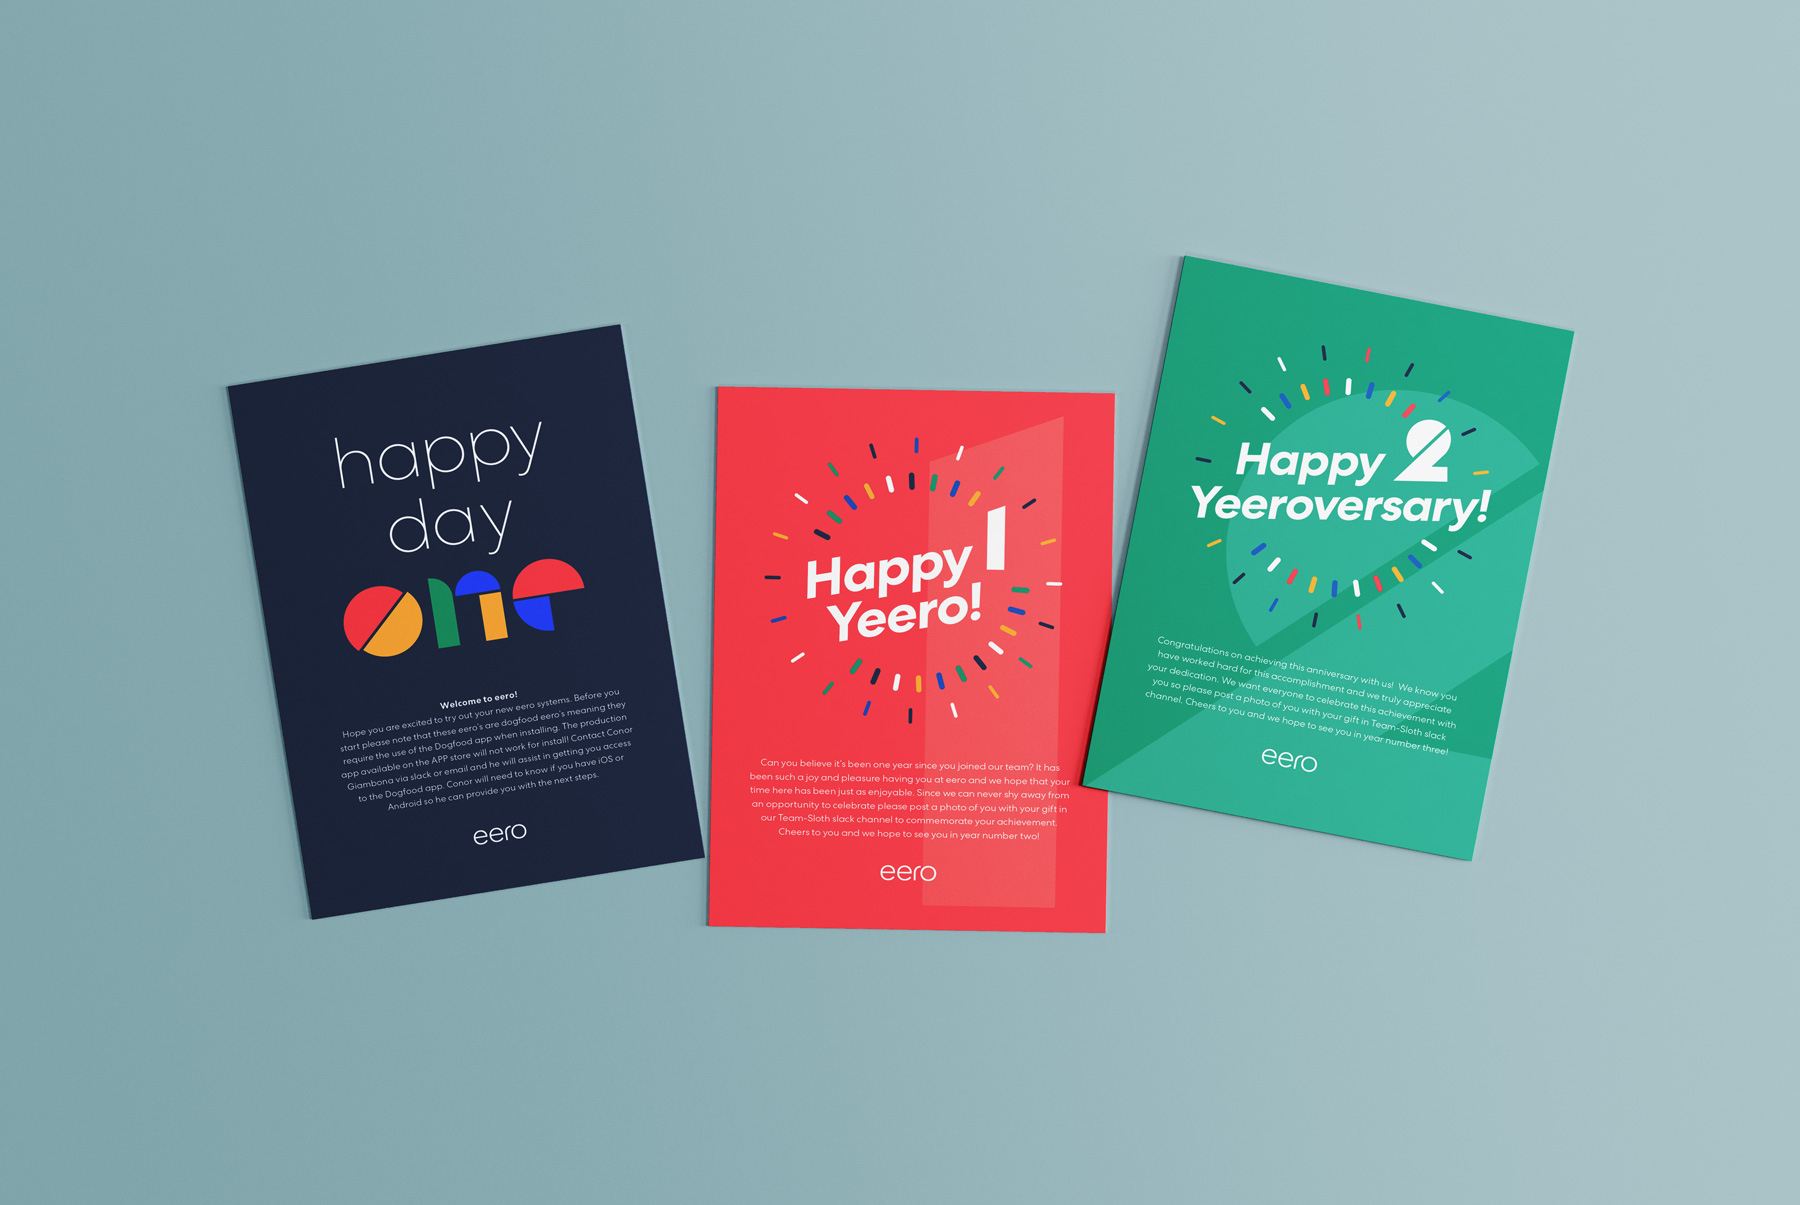
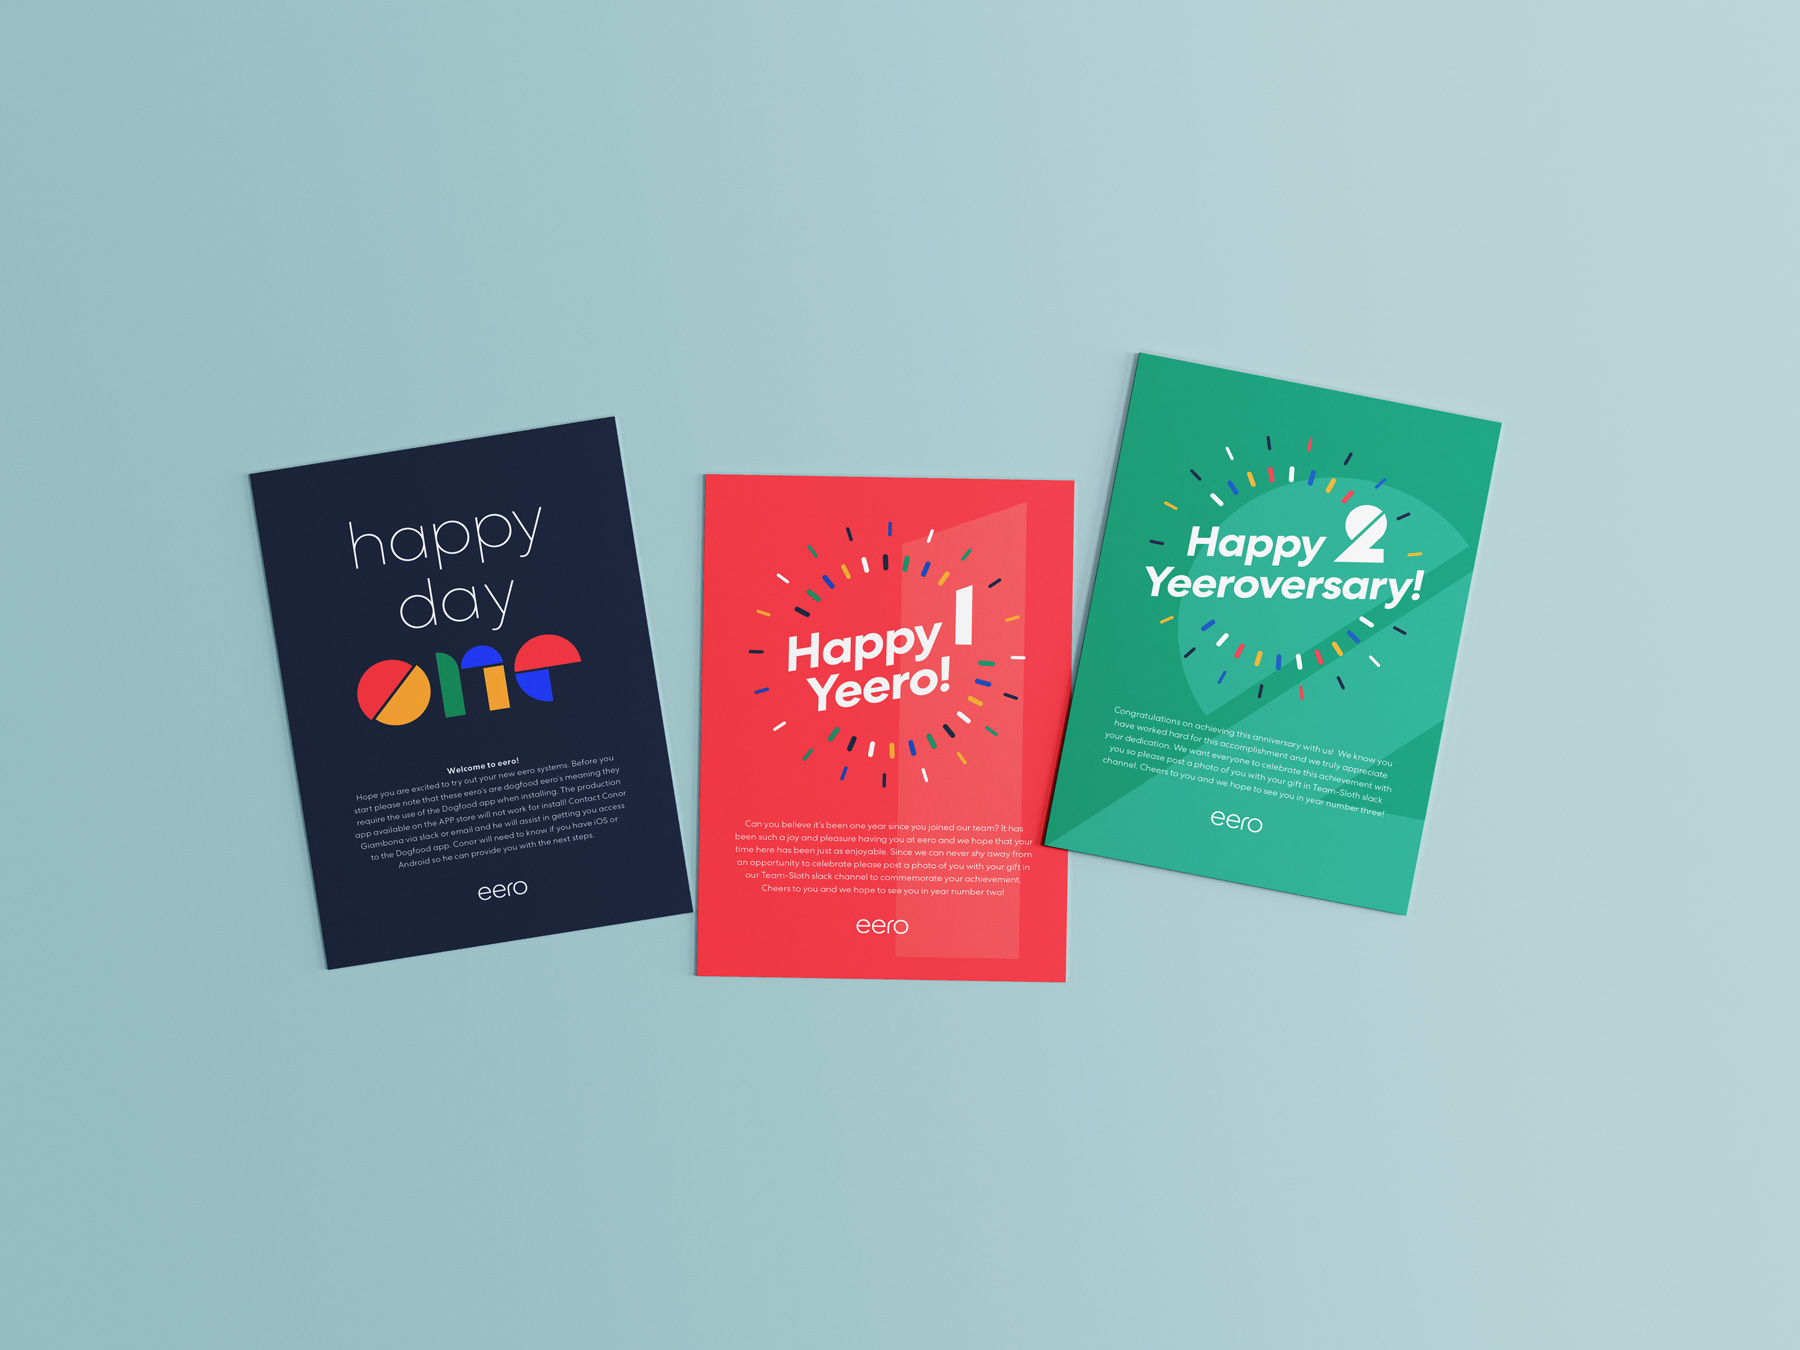
copyedit

Changed region(s): [[0.0933, 0.2149, 0.8711, 0.7983]]

diff --git a/slack.html b/slack.html
@@ -3,14 +3,17 @@ layout: default
 ---
 <div class="portfolio-piece">
   <body>
-    <h1>Global Slack brand campaigns</h1>
+    <h1>Slack global brand campaigns</h1>
+
     <p>
       As a production partner for Slack, XYZ has helped Slack roll out a number of brand campaigns across the world, including the US, Australia, France and Germany. Our relationship began with animated and static web banner production, and has expanded beyond digital media buys and into print & digital out-of-home campaigns as well. 
     </p>
 
+    <img src="/images/slack/slack_display_tan_1200x627_jpg_english_prime_ad_R1.jpg" class="img-fluid"/>
+
     <h3>Banner ads</h3>
     <p>
-      For our first campaign with Slack, I collaborated with <a href="http://mmb-designs.com" target="_blank" rel="noopener noreferrer">Morgan Brown</a> to build 48 sizes of static and animated web banners for a US brand campaign. Over the course of 4 weeks, Morgan and I shared the task of designing and storyboarding all of the animated banners; Morgan developed all the animated banners in HTML5, and I produced all static banner assets. 
+      For our first campaign with Slack, I collaborated with <a href="http://mmb-designs.com" target="_blank" rel="noopener noreferrer">Morgan Brown</a> to build 48 sizes of static and animated web banners for a US campaign. Over the course of 4 weeks, Morgan and I shared the task of designing and storyboarding all of the animated banners; Morgan developed all the animated banners in HTML5, and I created all static banners.
     </p>
     
     <img src="/images/slack/slack-animated-aubergine-01.gif" class="img-fluid"/>
@@ -37,7 +40,7 @@ layout: default
     </div>
 
     <p class="image-caption">
-      All banner animations developed by Morgan Brown @ <a class="image-caption-link" href="http://mmb-designs.com" target="_blank" rel="noopener noreferrer">mmb-designs.com</a>.
+      Banner animations developed by Morgan Brown @ <a class="image-caption-link" href="http://mmb-designs.com" target="_blank" rel="noopener noreferrer">mmb-designs.com</a>.
     </p>
 
     <br><hr>
@@ -49,7 +52,7 @@ layout: default
     <h3>Digital Out-Of-Home</h3>
 
     <p>
-      For a Slack brand campaign that ran in Australia, I created 16 different sized out-of-home digital advertisements. For this, I based my designs off of a previous Slack digital campaign that had run in Boston and Atlanta, incorporated Slack's new messaging that was specific to Australia, and scaled it across all sizes.
+      On a different brand campaign that ran in Australia, I created 16 different sized out-of-home digital advertisements. For this, I based my designs off of a previous Slack digital campaign that had run in Boston and Atlanta, incorporated Slack's new messaging targeting Australian audiences, and scaled it across all sizes.
     </p>
 
     <img src="/images/slack/OOH/Billboarrd_06.jpg" class="img-fluid"/>
@@ -62,7 +65,7 @@ layout: default
 
     <br><hr>
     <p>
-      I later created some banner ads under this same creative, translated into German and French, for a brand campaign in Europe. 
+      I later created 16 additional banner ads under this same creative, translated into German and French, for a brand campaign in Europe. 
     </p>
 
     <div class="row">
@@ -79,12 +82,16 @@ layout: default
     <h3>Transit wrap</h3>
 
     <p>
-      As part of Slack's brand campaign across Australia, I also designed a full tram wrap advertisement. Slack originally wanted this design to be based on the shapes creative (see above campaign), but decided that the creative was too busy for a tram, so we scrapped the shapes and ended up with a simple, yet bold design.
+      As part of Slack's brand campaign across Australia, I also designed a full tram wrap ad. 
     </p>
 
     <img src="/images/slack/20210118-c2.5103-slack-clst-ig.jpg" class="img-fluid"/>
     <p class="image-caption">
       &copy; Photo by Ian Green | Monday, January 18th 2021
+    </p>
+
+    <p>
+      Slack originally wanted this design to be based on the shapes creative (see above campaign), but decided that the creative was too busy for a tram, so we scrapped the shapes and ended up with a simple, yet bold design.
     </p>
 
     <br><hr>

diff --git a/eero-tech.html b/eero-tech.html
@@ -5,14 +5,14 @@ layout: default
   <body>
     <h1>Crafting hero images for new eero products</h1>
     <p>
-      For the launch of their new products, eero 6 and eero Pro 6, eero needed stylized 3D renders for their website that were different from the product images they already had. The existing imagery largely consisted of straightforward, orthographic views of their products. My job was to create various layout options with their products floating in space to showcase the product angles in different and interesting ways.
+      For the launch of their new products, eero 6 and eero Pro 6, eero was looking for stylized 3D renders to display on their website. Their existing imagery largely consisted of straightforward, orthographic views of their products. I designed various layout options with their products floating in space to showcase the product angles in different and interesting ways.
     </p>
     <img src="/images/eero/eero-Technology-Desktop.jpg" class="img-fluid"/>
     <p>
-      Originally, the plan was to sketch out my layout ideas and then work with a 3D artist to bring those ideas to life, but I decided to dive into 3D to execute the ideas myself. With 3D, I was better able to illustrate my layout ideas, had more control of the positions, angles, rotations and depth of field of each product, and was able to churn out ideas and iterate on them much more quickly than I would have been able to with pen and paper.
+      Originally, the plan was to sketch out my layout ideas and then work with a 3D artist to bring those ideas to life, but I decided to dive into 3D to execute the ideas myself. With 3D, I was better able to illustrate my layout ideas, had more control of the positions, angles, rotations and depth of field of each product, and was able to churn out ideas and iterate on them much more quickly than I would have been able to on paper.
     </p>
     <p>
-      Once we finalized the layout, I worked with 3D artist Mark Velazquez to light and texture the scene. Our final render is now the hero image on <a href="http://eero.com/technology" class="links">eero's Technology page</a>!
+      Once we finalized the layout, I worked with 3D artist Mark Velazquez to light and texture the scene. Our final render is now the hero image on <a href="http://eero.com/technology" target="_blank" rel="noopener noreferrer" class="links">eero's Technology page</a>!
     </p>
     <img src="/images/eero/Eero_AndyTown_sRGB_Text_v012.jpg" class="img-fluid"/>
     <img src="/images/eero/Eero_EdenTown_sRGB_v018.jpg" class="img-fluid"/>

diff --git a/eero-cards.html b/eero-cards.html
@@ -5,10 +5,10 @@ layout: default
   <body>
     <h1>Celebrating eero employee milestones</h1>
 
-    <img src="/images/eero/anniversary-cards/eero-cards-mockup.jpg" class="img-fluid"/>
+    <img src="/images/eero/anniversary-cards/3-Postcard-Mockups.jpg" class="img-fluid"/>
 
     <p>
-      A series of print cards to welcome <a href="http://eero.com" class="links">eero</a> employees on their first day of work and to celebrate work anniversaries. Each of the cards has the same base design, and I used eero's brand colors and designed numbers & lettering composed of geometric shapes to differentiate between each event. For the anniversary cards, the confetti is positioned in concentric circles around the celebratory message like a wifi signal, which alludes to eero's smart home wifi system. I had a lot of fun creating these designs :)
+      A series of print cards to welcome <a href="http://eero.com" class="links">eero</a> employees on their first day and to celebrate work anniversaries. Each of the cards has the same base design, and I used eero's brand colors and designed numbers & lettering composed of geometric shapes to differentiate between each event. For the anniversary cards, I positioned the confetti in concentric circles around the celebratory message like a wifi signal, alluding to eero's smart home wifi system.
     </p>
     <div class="row">
       <!-- <div class="col-lg-8 col-xs-12 mx-auto"> -->
@@ -39,7 +39,7 @@ layout: default
     </div>
 
     <br><hr>
-    <p>Below are other designs for the welcome card that didn't make the cut.</p>
+    <p>Below were other designs for the welcome card.</p>
 
     <div class="row">
       <div class="col-sm-4 col-xs-12">
@@ -69,7 +69,7 @@ layout: default
       <div class="previous-project col-sm-5 mx-auto">
         <a href="/slack.html">
           <p class="prev">Previous project</p>
-          <h2 class="footer-proj-title">Slack brand campaigns</h2>
+          <h2 class="footer-proj-title">Slack global campaigns</h2>
         </a>
       </div>
       <div class="next-project col-sm-5 mx-auto">

diff --git a/index.html b/index.html
@@ -14,10 +14,10 @@ title: Shannon Chu
   <div class="row">
     <div class="col-sm-6 project-card">
       <a href="slack.html">
-        <img src="images/slack/thumb.jpg" />
-        <h2 class="proj-title">Global Slack brand campaigns</h2>
+        <img src="images/slack/thumb2.jpg" />
+        <h2 class="proj-title">Slack global brand campaigns</h2>
       </a>
-      <p class="proj-description">Digital & print out-of-home campaigns, web banners, and transit advertising for Slack</p>
+      <p class="proj-description">Digital and print out-of-home advertising, web banners, and more for Slack</p>
     </div>
     <div class="col-sm-6 project-card">
       <a href="eero-cards.html">

diff --git a/css/main.css b/css/main.css
@@ -164,7 +164,7 @@ a:hover {
 .image-caption {
   font-size: 0.8rem;
   line-height: 1rem;
-  color: #a3a3a3;
+  color: #A9A9A9;
   font-weight: 400;
   display: block;
   margin:auto;
@@ -174,13 +174,13 @@ a:hover {
   font-size: 0.8rem;
   font-weight: 700;
   text-decoration: none;
-  color: #000000;
+  color: #505050;
   transition: .25s;
 }
 
 .image-caption-link:hover {
   text-decoration: none;
-  color: #000000;
+  color: #505050;
 }
 
 .side-imgs {

diff --git a/tensegrity.html b/tensegrity.html
@@ -87,7 +87,7 @@ layout: default
       <div class="next-project col-sm-5 mx-auto">
         <a href="/slack.html">
           <p class="next">Next project</p>
-          <h2 class="footer-proj-title">Slack brand campaigns</h2>
+          <h2 class="footer-proj-title">Slack global campaigns</h2>
         </a>
       </div> 
     </div>

diff --git a/_layouts/default.html b/_layouts/default.html
@@ -46,7 +46,7 @@
       {{ content }}
     </div>
     <footer>
-      &copy; 2021 Shannon Chu
+      &copy; 2021 All projects made by Shannon Chu and collaborators.
     </footer>
   </body>
 </html>
